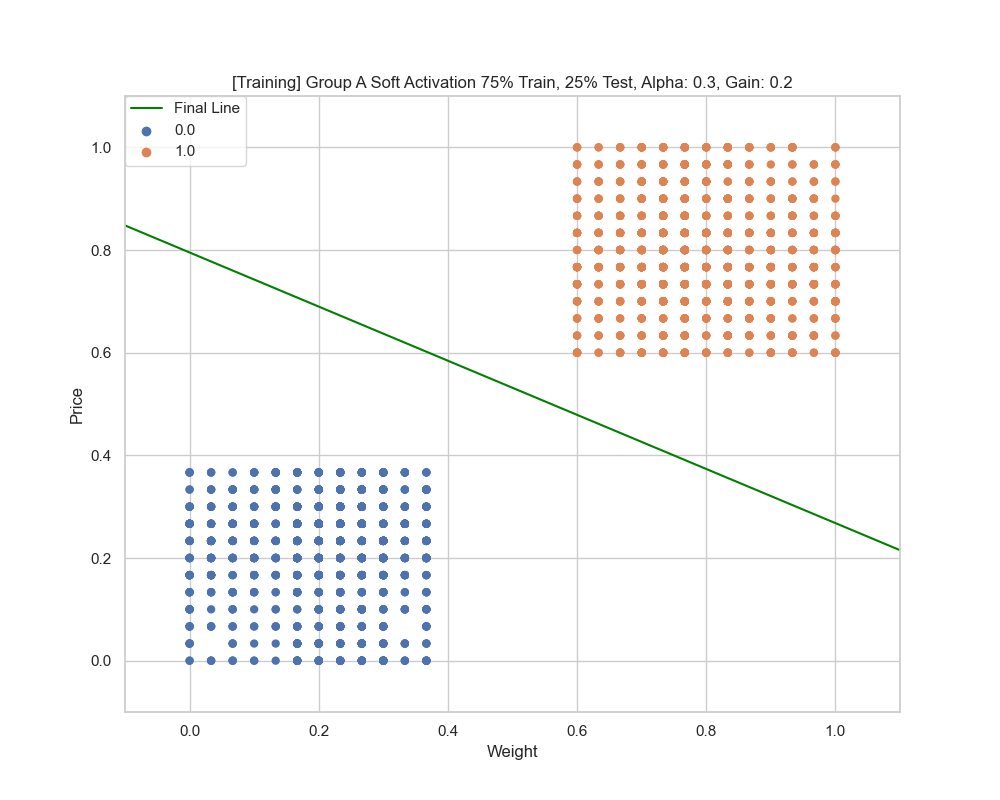
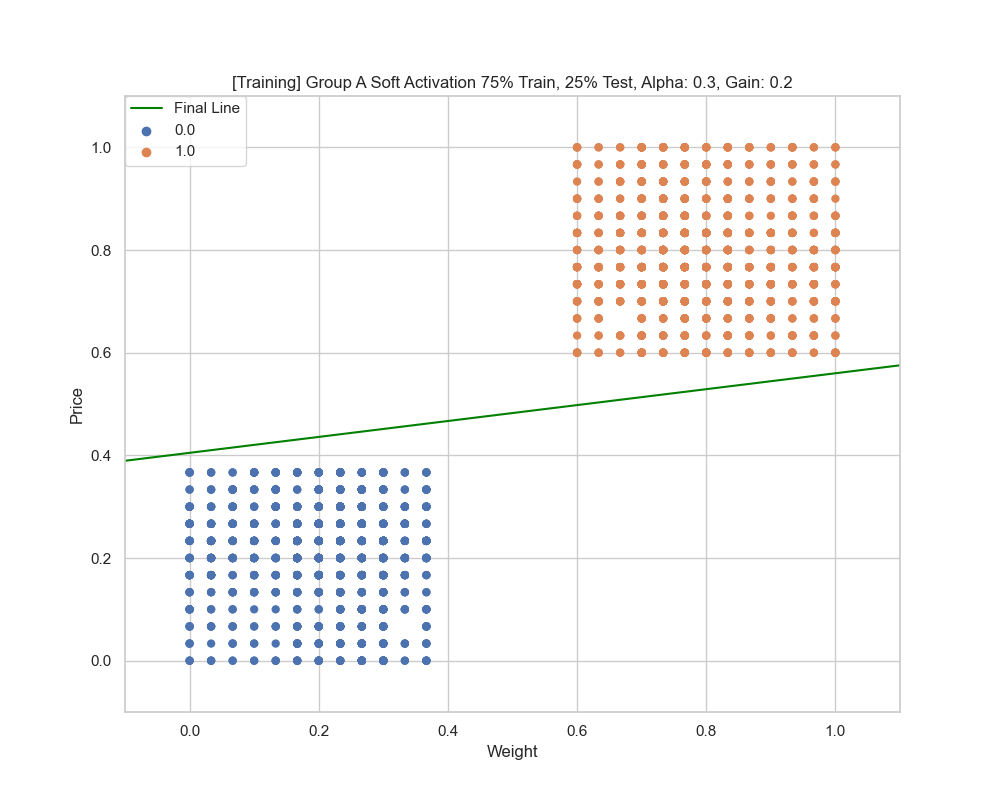
wrong weights in 2 sets

diff --git a/assignment2.py b/assignment2.py
@@ -378,7 +378,7 @@ groupa_soft_25, groupa_soft_25_train, groupa_soft_25_test, groupa_soft_25_out, g
 pred, testOut = test_soft(
     groupa_soft_75, groupa_soft_75_test, groupa_soft_75_out, gainA_75)
 graph_results("[Training] Group A Soft Activation 75% Train, 25% Test, Alpha: 0.3, Gain: 0.2",
-              train, groupa_hard_75)
+              train, groupa_soft_75)
 graph_results("[Testing] Group A Soft Activation 75% Train, 25% Test, Alpha: 0.3, Gain: 0.2",
               test, groupa_soft_75)
 confusion_matrix(
@@ -386,7 +386,7 @@ confusion_matrix(
 pred, testOut = test_soft(
     groupa_soft_25, groupa_soft_25_test, groupa_soft_25_out, gainB_25)
 graph_results("[Training] Group A Soft Activation 25% Train, 75% Test, Alpha: 0.3, Gain: 0.2",
-              train, groupa_hard_75)
+              train, groupa_soft_25)
 graph_results("[Testing] Group A Soft Activation 25% Train, 75% Test, Alpha: 0.3, Gain: 0.2",
               test, groupa_soft_25)
 confusion_matrix(
@@ -399,7 +399,7 @@ groupb_soft_25, groupb_soft_25_train, groupb_soft_25_test, groupb_soft_25_out, g
 pred, testOut = test_soft(
     groupb_soft_75, groupb_soft_75_test, groupb_soft_75_out, gainB_75)
 graph_results("[Training] Group B Soft Activation 75% Train, 25% Test, Alpha: 0.3, Gain: 0.2",
-              train, groupb_hard_75)
+              train, groupb_soft_75)
 graph_results("[Testing] Group B Soft Activation 75% Train, 25% Test, Alpha: 0.3, Gain: 0.2",
               test, groupb_soft_75)
 confusion_matrix(
@@ -407,7 +407,7 @@ confusion_matrix(
 pred, testOut = test_soft(
     groupb_soft_25, groupb_soft_25_test, groupb_soft_25_out, gainB_25)
 graph_results("[Training] Group B Soft Activation 25% Train, 75% Test, Alpha: 0.3, Gain: 0.2",
-              train, groupb_hard_25)
+              train, groupb_soft_25)
 graph_results("[Testing] Group B Soft Activation 25% Train, 75% Test, Alpha: 0.3, Gain: 0.2",
               test, groupb_soft_25)
 confusion_matrix(
@@ -420,7 +420,7 @@ groupc_soft_25, groupc_soft_25_train, groupc_soft_25_test, groupc_soft_25_out, g
 pred, testOut = test_soft(
     groupc_soft_75, groupc_soft_75_test, groupc_soft_75_out, gainC_75)
 graph_results("[Training] Group C Soft Activation 75% Train, 25% Test, Alpha: 0.1, Gain: 0.1",
-              train, groupc_hard_75)
+              train, groupc_soft_75)
 graph_results("[Training]Group C Soft Activation 75% Train, 25% Test, Alpha: 0.1, Gain: 0.1",
               test, groupc_soft_75)
 confusion_matrix(
@@ -428,7 +428,7 @@ confusion_matrix(
 pred, testOut = test_soft(
     groupc_soft_25, groupc_soft_25_test, groupc_soft_25_out, gainC_25)
 graph_results("[Training] Group C Soft Activation 25% Train, 75% Test, Alpha: 0.1, Gain: 0.1",
-              train, groupc_hard_25)
+              train, groupc_soft_25)
 graph_results("[Training]Group C Soft Activation 25% Train, 75% Test, Alpha: 0.1, Gain: 0.1",
               test, groupc_soft_25)
 confusion_matrix(
@@ -449,7 +449,7 @@ confusion_matrix(
 pred, testOut = test_hard(
     alta_hard_25, alta_hard_25_test, alta_hard_25_out)
 graph_results("[Training] Alt Data A Hard Activation 25% Train, 75% Test, Alpha: 0.3",
-              train, alta_hard_75)
+              train, alta_hard_25)
 graph_results("[Testing] Alt Data A Hard Activation 25% Train, 75% Test, Alpha: 0.3",
               test, alta_hard_25)
 confusion_matrix(
